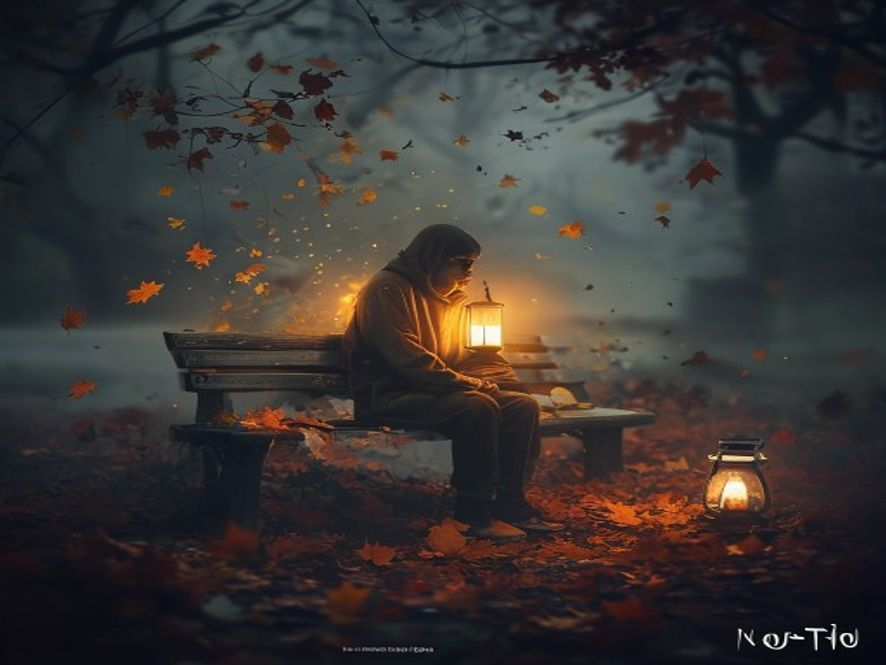
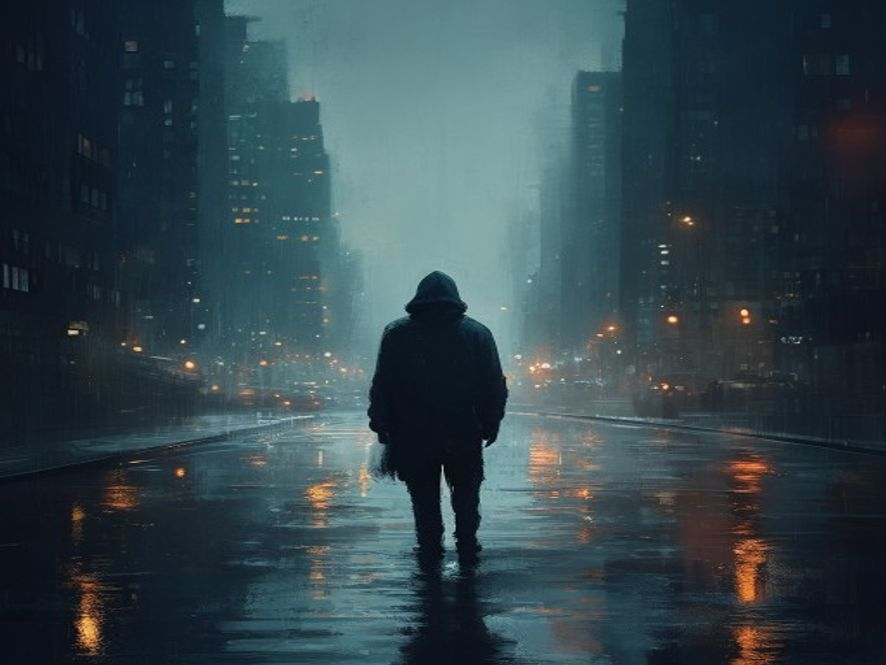
slug title

diff --git a/services/batchGenerator.js b/services/batchGenerator.js
@@ -1,3 +1,5 @@
+const fs = require("fs");
+const path = require("path");
 const generateTitle = require("./titleGenerator");
 const generateLyrics = require("./lyricsGenerator");
 const saveOutput = require("./saveOutput");
@@ -45,6 +47,11 @@ async function generateBatch(
     const videoPath =
     `outputs/videos/${title}.mp4`;
 
+    const videoDir = path.dirname(videoPath);
+    if (!fs.existsSync(videoDir)) {
+      fs.mkdirSync(videoDir, { recursive: true });
+    }
+
     await generateVideo(
     imagePath,
     videoPath
@@ -56,7 +63,7 @@ async function generateBatch(
 
     audioResult = {
 
-    audioPath: "./assets/dummy.mp3",
+    audioPath: "./assets/dummy.wav",
 
     status: "dummy",
 
@@ -64,12 +71,12 @@ async function generateBatch(
 
     } else {
 
-    audioResult =
-    await generateMusic(
+    audioResult = await generateAudio({
+      title,
       genre,
       mood,
       lyrics
-    );
+    });
 
     }
 
@@ -84,6 +91,16 @@ ${basePrompt}
 Mood:
 ${mood}
 `;
+
+const slug = title
+  .toLowerCase()
+  .replace(/[^a-z0-9]+/g, "-")
+  .replace(/^-|-$/g, "");
+
+const songFolder = path.join(__dirname, "songs", slug);
+if (!fs.existsSync(songFolder)) {
+  fs.mkdirSync(songFolder, { recursive: true });
+}
 
     const songData = {
     id: Date.now(),
@@ -105,6 +122,37 @@ ${mood}
 
     created_at: new Date(),
     };
+
+    const dbPath = path.join(process.cwd(), "songs", "database.json");
+
+    let database = [];
+
+    const dbDir = path.dirname(dbPath);
+    if (!fs.existsSync(dbDir)) {
+      fs.mkdirSync(dbDir, { recursive: true });
+    }
+
+    if (fs.existsSync(dbPath)) {
+    const rawData = fs.readFileSync(dbPath);
+    database = JSON.parse(rawData);
+    }
+
+    database.push(songData);
+
+    fs.writeFileSync(
+    dbPath,
+    JSON.stringify(database, null, 2)
+    );
+    fs.writeFileSync(
+    path.join(songFolder, "lyrics.txt"),
+    lyrics
+    );
+    fs.writeFileSync(
+    path.join(songFolder, "metadata.json"),
+    JSON.stringify(songData, null, 2)
+    );
+
+    console.log("Song saved to database");
 
     saveOutput(songData);
     saveToDatabase(songData);

diff --git a/index.js b/index.js
@@ -1,5 +1,6 @@
 require("dotenv").config();
 
+const fs = require("fs");
 const TelegramBot = require("node-telegram-bot-api");
 const loadPrompt = require("./services/promptLoader");
 const saveOutput = require("./services/saveOutput");